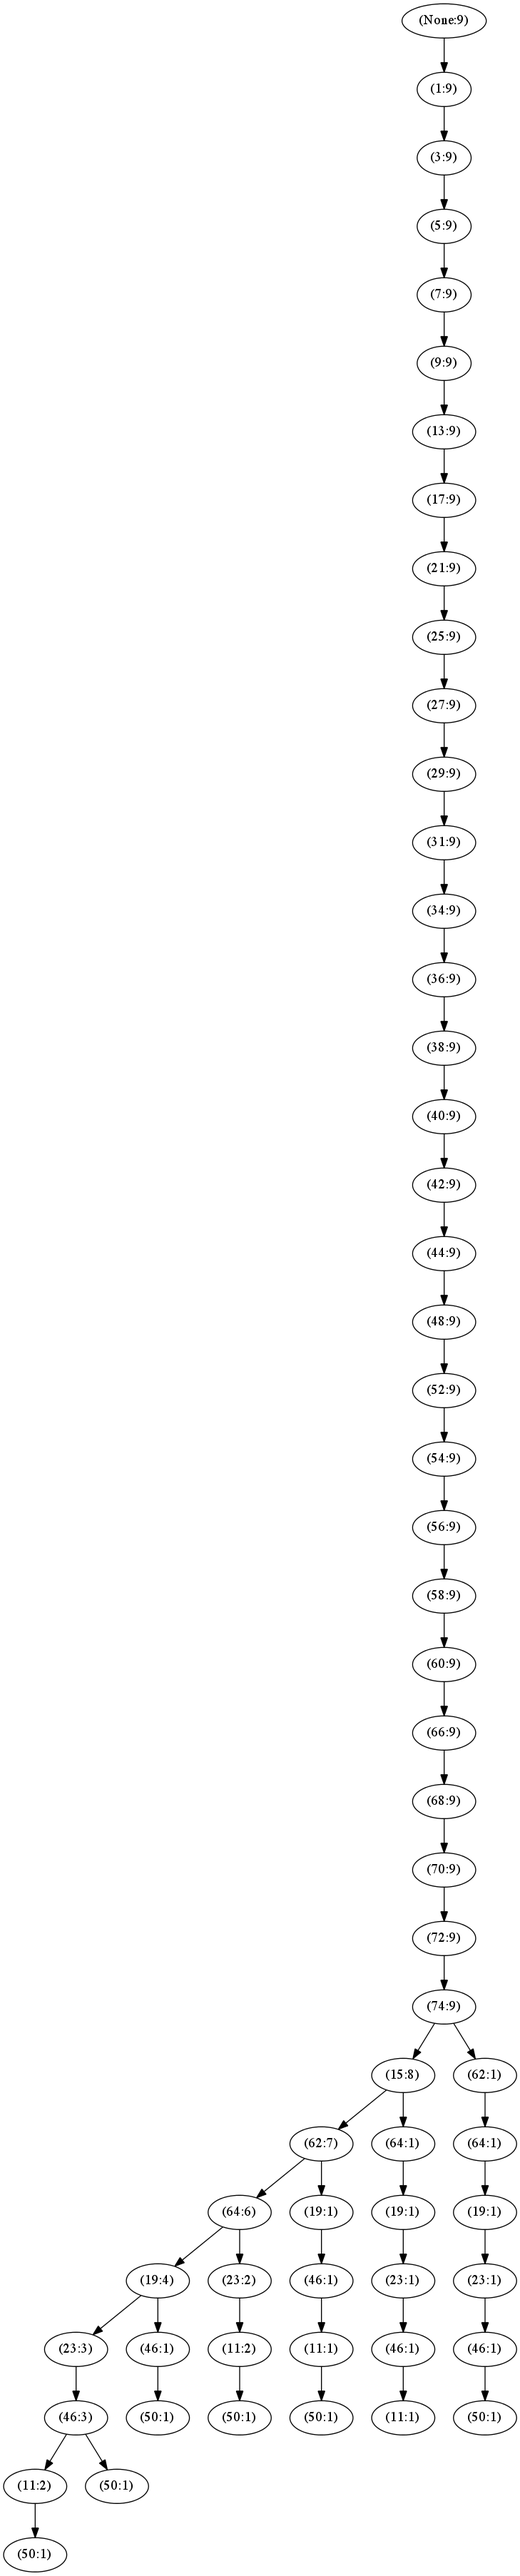
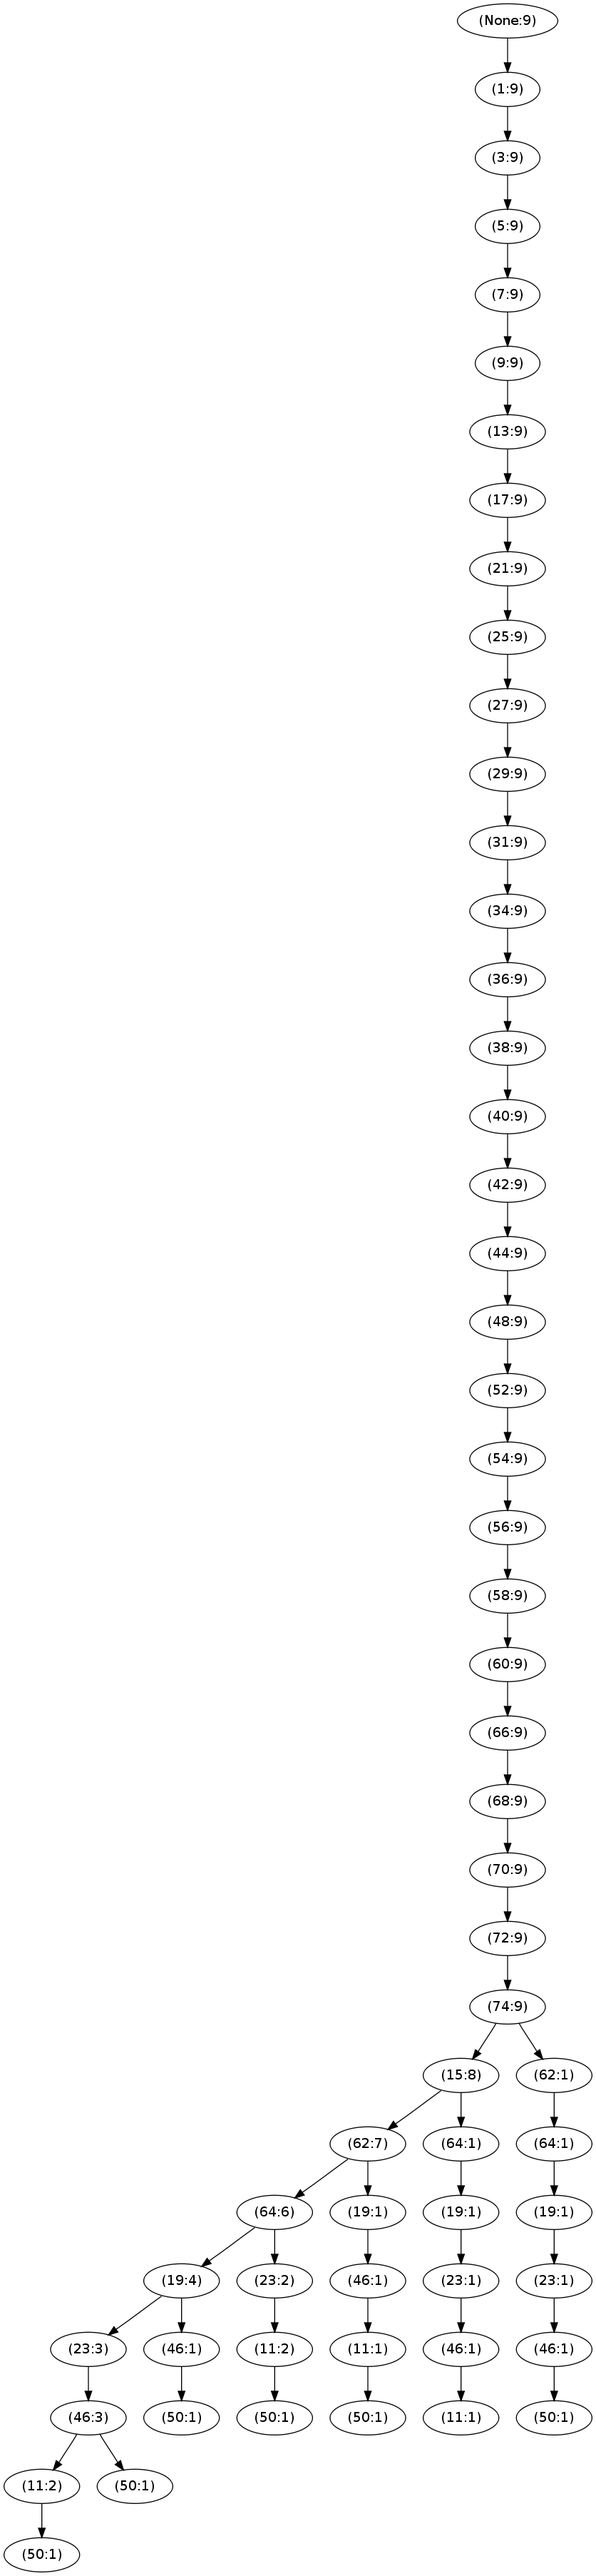
Added images to report

diff --git a/report/assignment.tex b/report/assignment.tex
@@ -11,6 +11,7 @@
 \usepackage{HeaderStuff}
 \usepackage{url}
 \usepackage{hyperref}
+\usepackage{nonfloat}
 
 %%%%%%%%%%%%%%%%%%%%%%%%%%%%%%%%%%%%%%%%%%%%%%%%%%%%%%%%%%%%%%%%%%%%%%
 % Multicolumn stuff
@@ -50,28 +51,76 @@ I implemented the following algorithms for mining frequent patterns:
 
 \subsection{Apriori}
 
-In which we describe the Apriori algorithm.
+This algorithm is based on the antimonotone property of frequent
+itemsets.  That is to say, subsets of frequent itemsets must
+themselves be frequent itemsets.  With this in mind, to find frequent
+itemsets of size k, we begin by finding all frequent itemsets of size
+1, which simply means to count the occurences (called the support) of
+each item in the dataset.  For efficiency, we may also set a minimum
+support above which we consider an itemset to be frequent.
+
+Knowing the frequent itemsets of size 1, we find the frequent itemsets
+of size 2 by rescanning the dataset again.  We repeat this process of
+incrementing the size of the itemsets and filtering out infrequent
+patterns until we reach the desired patterns of size k.
 
 \subsection{FP-Growth}
 
-In which we describe the FP-Growth algorithm.
+First we build a structure of information about frequent items called
+the \emph{FP-Tree}.  This tree stores nodes representing items in the
+dataset and the number of times the prefix formed by the path from the
+root to the node appears in itemsets in the dataset.
+
+\begin{center}
+\includegraphics[scale=0.5]{../figs/tiny.png}
+\figcaption{The FP-Tree of the full \texttt{tiny.dat} dataset}
+\end{center}
+
+Not shown above is a table stored along with the \emph{FP-Tree} which
+stores the support of each item in the tree along with a list of nodes
+for each item in the tree.
+
+Next, we mine the tree.  If the \emph{FP-Tree} consists of a single
+path, then all combinations of frequent items along the path are
+frequent patterns.  If the \emph{FP-Tree} has many paths, we go
+through each item and build conditional \emph{FP-Trees} of
+transactions containing that item, and recursively mining those trees.
 
 \subsection{Eclat}
 
-In which we describe the Eclat algorithm.
+This algorithm is based around the properties of the vertical data
+format, in which each item has an associated transaction id set
+(tidset).  The support of an individual item is simply the cardinality
+of its tidset.  The support of more than one item is simply the
+cardinality of the intersection of the tidsets of the items.
 
-\section{Challenges}
-
-In which we describe the challenges encountered.
+To find all the k-patterns on a dataset, Eclat simply iterates over
+all k-combinations of items and for each it checks the cardinality of
+the intersection of the items in the combination.  If the cardinality
+is at least the minimum support, it reports the pattern.
 
 \section{Testing Methodology}
 
 In which we describe the methodology of the testing.
 
+\begin{center}
+\begin{figure*}
+\includegraphics[scale=0.9]{../figs/runtimes_by_k.png}
+\caption{Algorithm Runtimes by k}
+\end{figure*}
+\end{center}
+
 \section{Results}
 \label{sec:results}
 
 In which we describe the results of the experiments.
+
+\begin{center}
+\begin{figure*}
+\includegraphics[scale=0.9]{../figs/runtimes_by_rows.png}
+\caption{Algorithm Runtimes by Size of Dataset}
+\end{figure*}
+\end{center}
 
 \section{Future Work}
 
